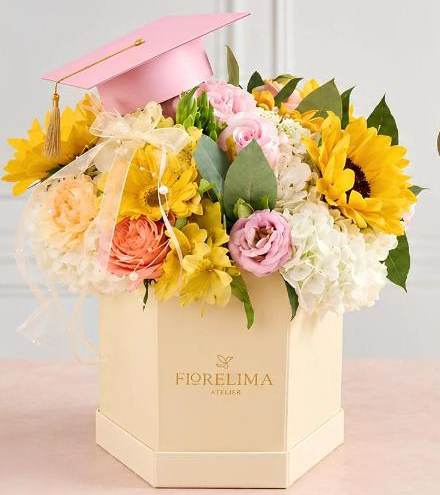
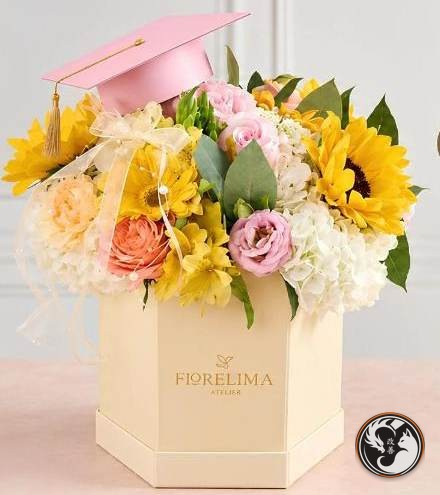
Agrega marca de agua MARK KAIZEN a piezas de Florelima y análisis de referencia
Claude-Session: https://claude.ai/code/session_01N9nPS8UpN54os68BhDmLxD

Changed region(s): [[0.7977, 0.8182, 0.975, 0.9697]]

diff --git a/docs/herramientas/marca_de_agua.py b/docs/herramientas/marca_de_agua.py
@@ -1,0 +1,24 @@
+"""Marca de agua MARK KAIZEN (símbolo) abajo-derecha. Uso: python3 marca_de_agua.py entrada salida [ancho_rel] [opacidad]"""
+import sys
+from PIL import Image, ImageFilter
+
+def aplicar(src, dst, rel=0.13, op=0.78):
+    base = Image.open(src).convert("RGB")
+    w, h = base.size
+    s = Image.open("img/simbolo-256.png").convert("RGBA")
+    d = max(36, int(w * rel))
+    s = s.resize((d, d), Image.LANCZOS)
+    a = s.getchannel("A").point(lambda v: int(v * op))
+    s.putalpha(a)
+    sombra = Image.new("RGBA", s.size, (0, 0, 0, 0))
+    sombra.putalpha(a.point(lambda v: int(v * .5)))
+    sombra = sombra.filter(ImageFilter.GaussianBlur(d * .03))
+    m = int(w * .035)
+    x, y = w - d - m, h - d - m
+    out = base.convert("RGBA")
+    out.alpha_composite(sombra, (x, y + 2))
+    out.alpha_composite(s, (x, y))
+    out.convert("RGB").save(dst, "JPEG", quality=90, optimize=True)
+
+if __name__ == "__main__":
+    aplicar(sys.argv[1], sys.argv[2], *(float(v) for v in sys.argv[3:5]))

diff --git a/docs/ANALISIS_RABBIT_BAKERY_PARA_FLORELIMA.md b/docs/ANALISIS_RABBIT_BAKERY_PARA_FLORELIMA.md
@@ -1,0 +1,27 @@
+# Análisis de referencia: Rabbit Bakery (post DflQHLSIGMx) → Florelima Atelier
+
+Estado: análisis aparte, basado solo en el texto público del post. Instagram no entregó las imágenes
+(carrusel de 12 slides, incluida la imagen 4), así que **no hay análisis visual de logo, color ni tipografía**.
+Falta verificar con las capturas.
+
+## Qué se pudo leer
+- Cuenta: @rabbit.bakery (Rabbit Bakery – Pastelería artística). Post del 2026-11-11, 12 slides, 323 likes, 4 comentarios.
+- Mensaje: aniversario de 10 años, "Team Rabbit". Tono cercano y emocional (fe, equipo, celebraciones familiares).
+- Estructura del texto: pregunta gancho → historia de marca → propuesta de valor ("más que un taller… espacio de confianza")
+  → pregunta final para generar comentarios.
+- Uso de emojis de marca (🐰💚) como identificador visual repetido.
+
+## Qué se puede llevar a Florelima (hipótesis, por validar)
+1. Carrusel de "equipo/historia" para Florelima: quién arma los ramos, proceso de las peonías (su post de peonías ya rinde: 11.7k views).
+2. Cierre con pregunta al público ("¿qué arreglo marcó tu celebración?") para subir comentarios (hoy 0–2 por post).
+3. Emoji/color de marca consistente en el texto, como Rabbit con 🐰💚.
+4. Hito de marca (aniversario) como contenido de confianza.
+
+## Cambio aplicado en este repo
+- Marca de agua del símbolo MARK KAIZEN (`img/simbolo-256.png`), abajo a la derecha, sobre las piezas de Florelima del portafolio:
+  - 13 páginas del catálogo de octubre (`media/d/1_rVhCYT4_uj0Cg_0iXZAyyZPTq1pg7uD-1..13.jpg`)
+  - `img/flor.jpg`, `img/flor2.jpg`
+- Script reproducible: `docs/herramientas/marca_de_agua.py`.
+- Ubicación elegida: esquina inferior derecha, porque la portada del catálogo ya lleva el logo Florelima abajo al centro.
+- Los originales siguen en el historial de git.
+- No se tocó el logo de Florelima (`img/logo-florelima-atelier.png`) ni el logo de MARK KAIZEN.
